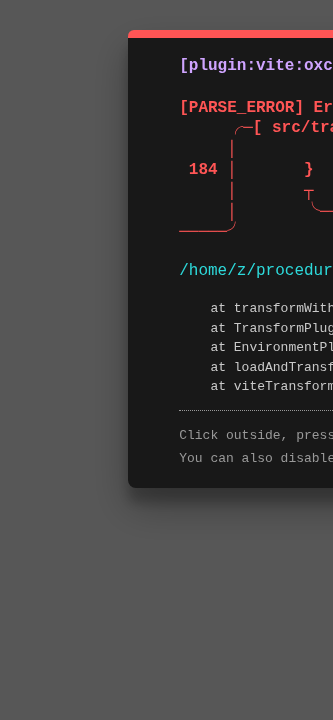
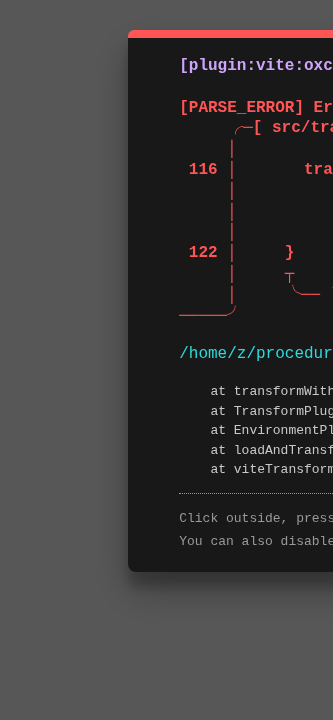
feat: wip

Changed region(s): [[0.3604, 0.3056, 1.0, 0.825], [0.9009, 0.2139, 1.0, 0.275], [0.6006, 0.2139, 0.6607, 0.2444]]

diff --git a/src/tracker.ts b/src/tracker.ts
@@ -24,11 +24,13 @@ export interface ProceduralState<TNumber extends number> {
   f: ProceduralFunction<Wait<TNumber>>
   totalCallsCount: number
   wait: Wait<TNumber>
+  suspended: boolean
 }
 export interface DeclarativeState<TNumber extends number> {
   f: DeclarativeFunction<TNumber, void>
-  startTime: TNumber
+  progress: TNumber
   duration: TNumber
+  suspended: boolean
 }
 
 export interface Track<TNumber extends number> {
@@ -84,11 +86,15 @@ export function compile<TNumber extends number>(track: Track<TNumber>, time: TNu
 
     // Subtract the wait time of the state from all other states
     const nextWaitTime = nextState.wait.duration!
-    track.proceduralStates = track.proceduralStates.map((s) => {
-      if (s.wait.duration === undefined) {
-        return s
+    track.proceduralStates.forEach((s) => {
+      if (s.wait.duration !== undefined && !s.suspended) {
+        s.wait.duration = (s.wait.duration - nextWaitTime) as TNumber
       }
-      return { ...s, wait: { duration: (s.wait.duration! - nextWaitTime) as TNumber } }
+    })
+    track.declarativeStates.forEach((s) => {
+      if (!s.suspended) {
+        s.progress = (s.progress + nextWaitTime) as TNumber
+      }
     })
 
     // Time must be updated before calling next()
@@ -97,16 +103,12 @@ export function compile<TNumber extends number>(track: Track<TNumber>, time: TNu
     // If the generator is done, remove it
     const iteratorResult = nextState.f.next()
     if (iteratorResult.done) {
-      track.proceduralStates = track.proceduralStates.map(
-        (s) => {
-          if (s.wait.dependencies === undefined || !s.wait.dependencies.has(nextState.f)) {
-            return s
-          }
-          else {
-            return { ...s, wait: { duration: 0 as TNumber } }
-          }
-        },
-      )
+      track.proceduralStates.forEach((s) => {
+        if (s.wait.dependencies !== undefined && s.wait.dependencies.has(nextState.f)) {
+          s.wait.duration = 0 as TNumber
+          delete s.wait.dependencies
+        }
+      })
     }
     // Otherwise, update the wait time of the generator to the new value returned by next()
     else {
@@ -114,7 +116,7 @@ export function compile<TNumber extends number>(track: Track<TNumber>, time: TNu
     }
 
     // Remove declarative states that have ended
-    track.declarativeStates = track.declarativeStates.filter(s => (track.time < s.startTime + s.duration))
+    track.declarativeStates = track.declarativeStates.filter(s => s.progress < s.duration)
 
     // Save the fixed track (copy)
     fixedTracks.push({
@@ -127,7 +129,7 @@ export function compile<TNumber extends number>(track: Track<TNumber>, time: TNu
 
   // Run remaining declarative states at the end
   // for the case where time is not Infinity
-  track.declarativeStates.filter(s => time >= s.startTime && time < s.startTime + s.duration).forEach(s => s.f((time - s.startTime) as TNumber))
+  track.declarativeStates.filter(s => s.progress < s.duration).forEach(s => s.f(s.progress))
   return fixedTracks
 }
 
@@ -144,17 +146,18 @@ export function useCompiled<TNumber extends number>(track: Track<TNumber>, fixed
       ref.current = fixedTrack.refValues.get(ref)
     }
   })
-  fixedTrack.declarativeStates.filter(s => (time >= s.startTime) && (time < s.startTime + s.duration)).forEach(s => s.f((time - s.startTime) as TNumber))
+  fixedTrack.declarativeStates.filter(s => s.progress < s.duration).forEach(s => s.f(s.progress))
 }
 
 export function runDeclarative<TNumber extends number>(track: Track<TNumber>, f: DeclarativeFunction<TNumber, void>, duration: TNumber): Task<Wait<TNumber>> {
-  const state = { f, startTime: track.time, duration }
+  const state = { f, progress: 0 as TNumber, duration, suspended: false }
   track.declarativeStates.push(state)
   return {
     suspend: () => {
-      track.declarativeStates = track.declarativeStates.filter(s => s !== state)
+      state.suspended = true
     },
     resume: () => {
+      state.suspended = false
     },
     wait: () => sleep(duration),
   }
@@ -162,13 +165,14 @@ export function runDeclarative<TNumber extends number>(track: Track<TNumber>, f:
 
 export function runProcedural<TNumber extends number>(track: Track<TNumber>, f: ProceduralFunction<Wait<TNumber>>): Task<Wait<TNumber>> {
   // Run immediately
-  const state = { f, wait: { duration: 0 as TNumber }, totalCallsCount: 0 }
+  const state = { f, wait: { duration: 0 as TNumber }, totalCallsCount: 0, suspended: false }
   track.proceduralStates.push(state)
   return {
     suspend: () => {
-      track.proceduralStates = track.proceduralStates.filter(s => s !== state)
+      state.suspended = true
     },
     resume: () => {
+      state.suspended = false
     },
     wait: () => ({
       dependencies: new Set([f]),